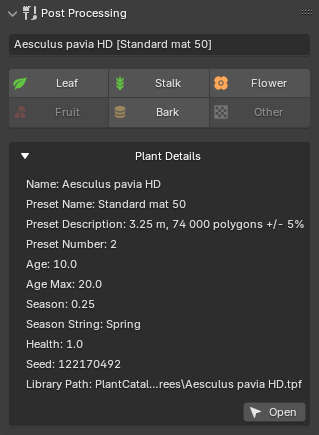
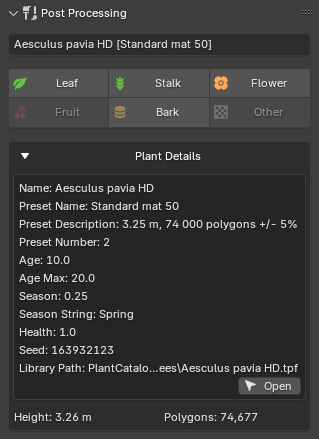
1.0.1

diff --git a/docs/changelog.md b/docs/changelog.md
@@ -11,6 +11,29 @@ Here, you can find a list of all updates, enhancements, and bug fixes made to PF
 
 <div class="changelog" markdown>
 
+### 1.0.1 <small>2025-03-16</small>
+
+- **Interface**:
+    - When browsing plants via the **Gallery view**, the **Presets** button is now disabled for plants that do not have available presets.
+    - Added a new `Hide 'Browse via PlantFactory' mode` setting in the preferences. If you only plan to use the **Browse via Blender** mode, you can enable this to hide the mode selection at the top and declutter the interface.
+    - The `Plant Details` box in the `Post Processing` panel now displays the height and polygon count of the selected plant.
+    - Miscellaneous minor interface tweaks.
+- **Plant-Fixes**:
+    - **New**:
+        - `PlantFactory > Flowers > Sunflower`
+        - `PlantFactory > Flowers > Tagetes`
+        - `PlantFactory > Flowers > Snowdrop`
+        - `PlantFactory > Palms > Mexican Fan Palm Young`
+        - `PlantFactory > Palms > Date_Palm Phoenix Dactylifera`
+        - `PlantFactory > Trees > Platanus x Acerifolia`
+        - `PlantFactory > Trees > Quercus Rubra Mature`
+        - `PlantFactory > Trees > Quercus Rubra Old`
+        - `PlantFactory > Trees > Quercus Rubra Young`
+- **Bugfixes**:
+    - The `Plant Troubleshoot tools > Verify Textures` utility now works with plants that do not have presets.
+
+---
+
 ### 1.0.0 <small>2025-03-12</small>
 
   > Compatibility: Blender 4.2 LTS, 4.3, 4.4

diff --git a/docs/preferences/general.md b/docs/preferences/general.md
@@ -9,6 +9,7 @@
     - Never
 - **Plant Thumbnail Size**: Adjust the size of the plant & preset thumbnails in the main Panel. This does not affect the thumbnail size in the Gallery view as it has its own setting directly available when browsing.
 - **Use Preset Thumbnails**: Enable to display presets with thumbnails. Disable this option to show presets as a simple list.
+- **Hide 'Browse via PlantFactory' mode**: If you only plan to use the **Browse via Blender** mode, you can enable this to hide the mode selection at the top and declutter the interface.
 
 ## PlantFactory Location
 
